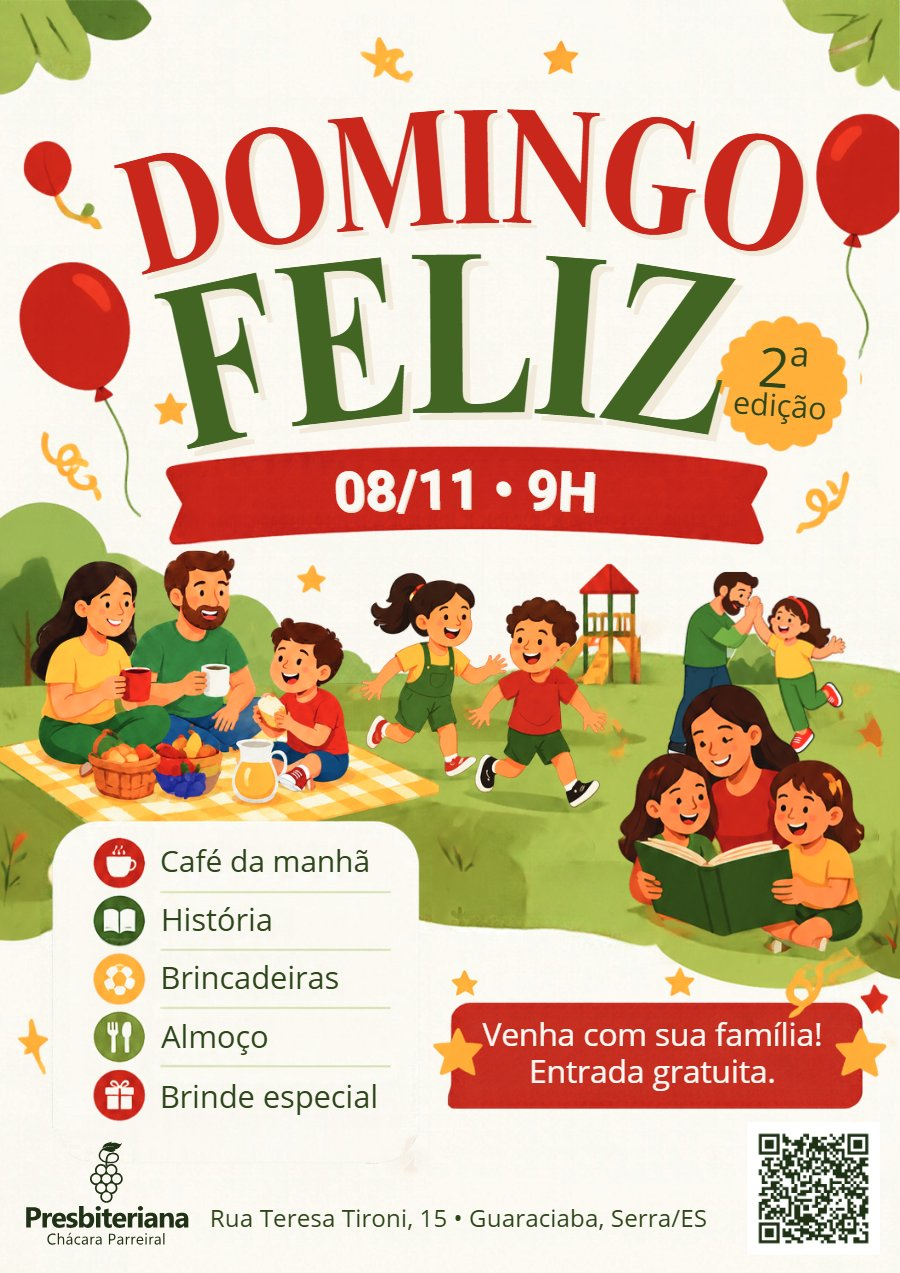
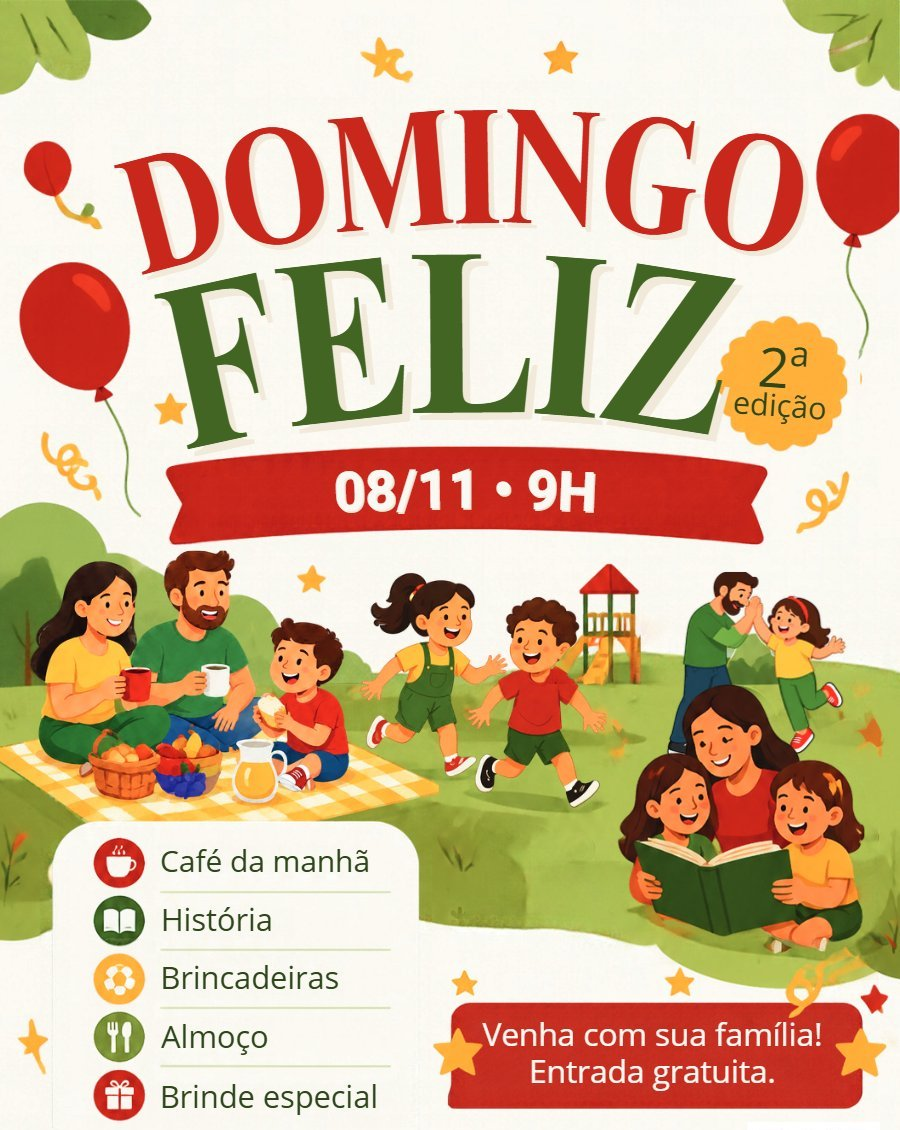
Domingo Feliz: cartaz do site sem rodapé e botão "Como chegar" na agenda
- Cartaz do site cortado acima do rodapé (logo, endereço e QR), que não
  servem na tela: o QR não dá para ler no próprio celular.
- /eventos: novo campo opcional "chegar" no resumo vira o botão
  "Como chegar"; no Domingo Feliz, aponta para o perfil da igreja no Google.

diff --git a/eventos/index.html b/eventos/index.html
@@ -12,7 +12,7 @@
 <link href="https://fonts.googleapis.com/css2?family=Fraunces:ital,opsz,wght@0,9..144,400;0,9..144,600;1,9..144,400&family=Open+Sans:wght@400;600;700;800&display=swap" rel="stylesheet">
 <link rel="stylesheet" href="/assets/css/site.css?v=6">
 <script src="/assets/js/site.js?v=2" defer></script>
-<script src="/assets/js/agenda.js?v=12" defer></script>
+<script src="/assets/js/agenda.js?v=13" defer></script>
 <style>
   :root { --c-culto: #BE1E2D; --c-escola: #2E6A9E; --c-oracao: #3F6005; --c-especial: #D9822B; }
   .agenda-wrap { max-width: 920px; margin: 0 auto; }
@@ -53,7 +53,7 @@
   .item .btn-agenda, .item .btn-saiba { display: inline-flex; align-items: center; gap: 6px; padding: .5rem 1rem; border-radius: 999px; font-size: .86rem; font-weight: 700; text-decoration: none; transition: background .2s, color .2s, border-color .2s; }
   .item .btn-agenda { border: 1px solid var(--linha); background: #fff; color: var(--videira); }
   .item .btn-agenda:hover { background: var(--videira); border-color: var(--videira); color: #fff; }
-  .item .btn-agenda svg { width: 16px; height: 16px; }
+  .item .btn-agenda svg, .item .btn-saiba svg { width: 16px; height: 16px; }
   .item .btn-saiba { background: var(--videira); color: #fff; border: 1px solid var(--videira); }
   .item .btn-saiba:hover { background: var(--videira-profunda); color: #fff; }
   .item.cancelado { opacity: .85; }
@@ -195,6 +195,7 @@ document.addEventListener('DOMContentLoaded', function () {
   }
 
   const ICONE_CAL = '<svg viewBox="0 0 24 24" fill="none" stroke="currentColor" stroke-width="2" aria-hidden="true"><rect x="3" y="5" width="18" height="16" rx="2"/><path d="M3 10h18M8 3v4M16 3v4M12 13v5M9.5 15.5h5"/></svg>';
+  const ICONE_MAPA = '<svg viewBox="0 0 24 24" fill="none" stroke="currentColor" stroke-width="2" aria-hidden="true"><path d="M12 21s-7-6.2-7-11.5A7 7 0 0 1 19 9.5C19 14.8 12 21 12 21z"/><circle cx="12" cy="9.5" r="2.5"/></svg>';
   function renderDia() {
     const evs = eventosDoDia(diaSel);
     let txt = diaSel.toLocaleDateString('pt-BR', { weekday: 'long', day: 'numeric', month: 'long' });
@@ -228,7 +229,7 @@ document.addEventListener('DOMContentLoaded', function () {
       ${r.sobretitulo ? `<div class="r-sobre">${r.sobretitulo}</div>` : ''}${r.titulo ? `<h4>${r.titulo}</h4>` : ''}
       ${(r.texto || []).map(t => `<p>${t}</p>`).join('')}
       ${r.info ? `<ul class="r-info">${r.info.map(t => `<li>${t}</li>`).join('')}</ul>` : ''}
-      <div class="acoes">${e.link ? `<a class="btn-saiba" ${attrsLink(e.link)}>Saiba mais sobre a cantata →</a>` : ''}${botaoAgenda(e)}</div>
+      <div class="acoes">${e.link ? `<a class="btn-saiba" ${attrsLink(e.link)}>Saiba mais sobre a cantata →</a>` : ''}${e.chegar ? `<a class="btn-saiba" ${attrsLink(e.chegar)}>${ICONE_MAPA} Como chegar</a>` : ''}${botaoAgenda(e)}</div>
     </div></div>`;
   }
 

diff --git a/index.html b/index.html
@@ -16,7 +16,7 @@
 <link href="https://fonts.googleapis.com/css2?family=Fraunces:ital,opsz,wght@0,9..144,400;0,9..144,600;1,9..144,400&family=Open+Sans:wght@400;600;700;800&family=Poppins:wght@400;500;700&display=swap" rel="stylesheet">
 <link rel="stylesheet" href="/assets/css/site.css?v=6">
 <script src="/assets/js/site.js?v=2" defer></script>
-<script src="/assets/js/agenda.js?v=12" defer></script>
+<script src="/assets/js/agenda.js?v=13" defer></script>
 <script type="application/ld+json">
 {
   "@context": "https://schema.org",
@@ -88,7 +88,7 @@
                   </div>
                 </div>
                 <div class="destaque-arte">
-                  <a class="cartaz-img" href="/eventos?dia=2026-11-08"><img src="/assets/img/domingo-feliz-2026.jpg" alt="Cartaz do Domingo Feliz, 2ª edição: 8 de novembro, 9h. Café da manhã, história, brincadeiras, almoço e brinde especial. Entrada gratuita." width="900" height="1273" loading="lazy"></a>
+                  <a class="cartaz-img" href="/eventos?dia=2026-11-08"><img src="/assets/img/domingo-feliz-2026.jpg?v=2" alt="Cartaz do Domingo Feliz, 2ª edição: 8 de novembro, 9h. Café da manhã, história, brincadeiras, almoço e brinde especial. Entrada gratuita." width="900" height="1130" loading="lazy"></a>
                 </div>
               </div>
             </div>

diff --git a/assets/js/agenda.js b/assets/js/agenda.js
@@ -22,6 +22,7 @@ const PROGRAMACAO_SEMANAL = [
 //   link: endereço de outro site (https://...) abre em nova aba
 //   local: 'Nome, endereço'          lugar do evento no "Adicionar à agenda" (padrão: o nosso templo)
 //   duracao: 90                      minutos, para o "Adicionar à agenda" (padrão: 120)
+//   chegar: 'https://...'           botão "Como chegar" no resumo (só em /eventos), ex.: perfil da igreja no Google
 //   resumo: { sobretitulo, titulo, texto: ['parágrafo', ...], info: ['etiqueta', ...] }
 //                                    mostra a arte com um resumo ao lado e o botão "Saiba mais" embaixo (só em /eventos)
 const EVENTOS_ESPECIAIS = [
@@ -32,7 +33,7 @@ const EVENTOS_ESPECIAIS = [
       'Proposta de título de diácono emérito ao irmão Ismael Silva',
     ] },
   { data: '2026-11-08', titulo: 'Domingo Feliz · 2ª edição', hora: '9h00', sub: 'No nosso templo · Para toda a família · Entrada gratuita',
-    arte: '/assets/img/domingo-feliz-2026.jpg', duracao: 240,
+    arte: '/assets/img/domingo-feliz-2026.jpg?v=2', duracao: 240, chegar: 'https://share.google/Zyz6tsCCchU8Y2XDF',
     resumo: {
       sobretitulo: 'Para toda a família',
       titulo: 'Uma manhã de festa',
